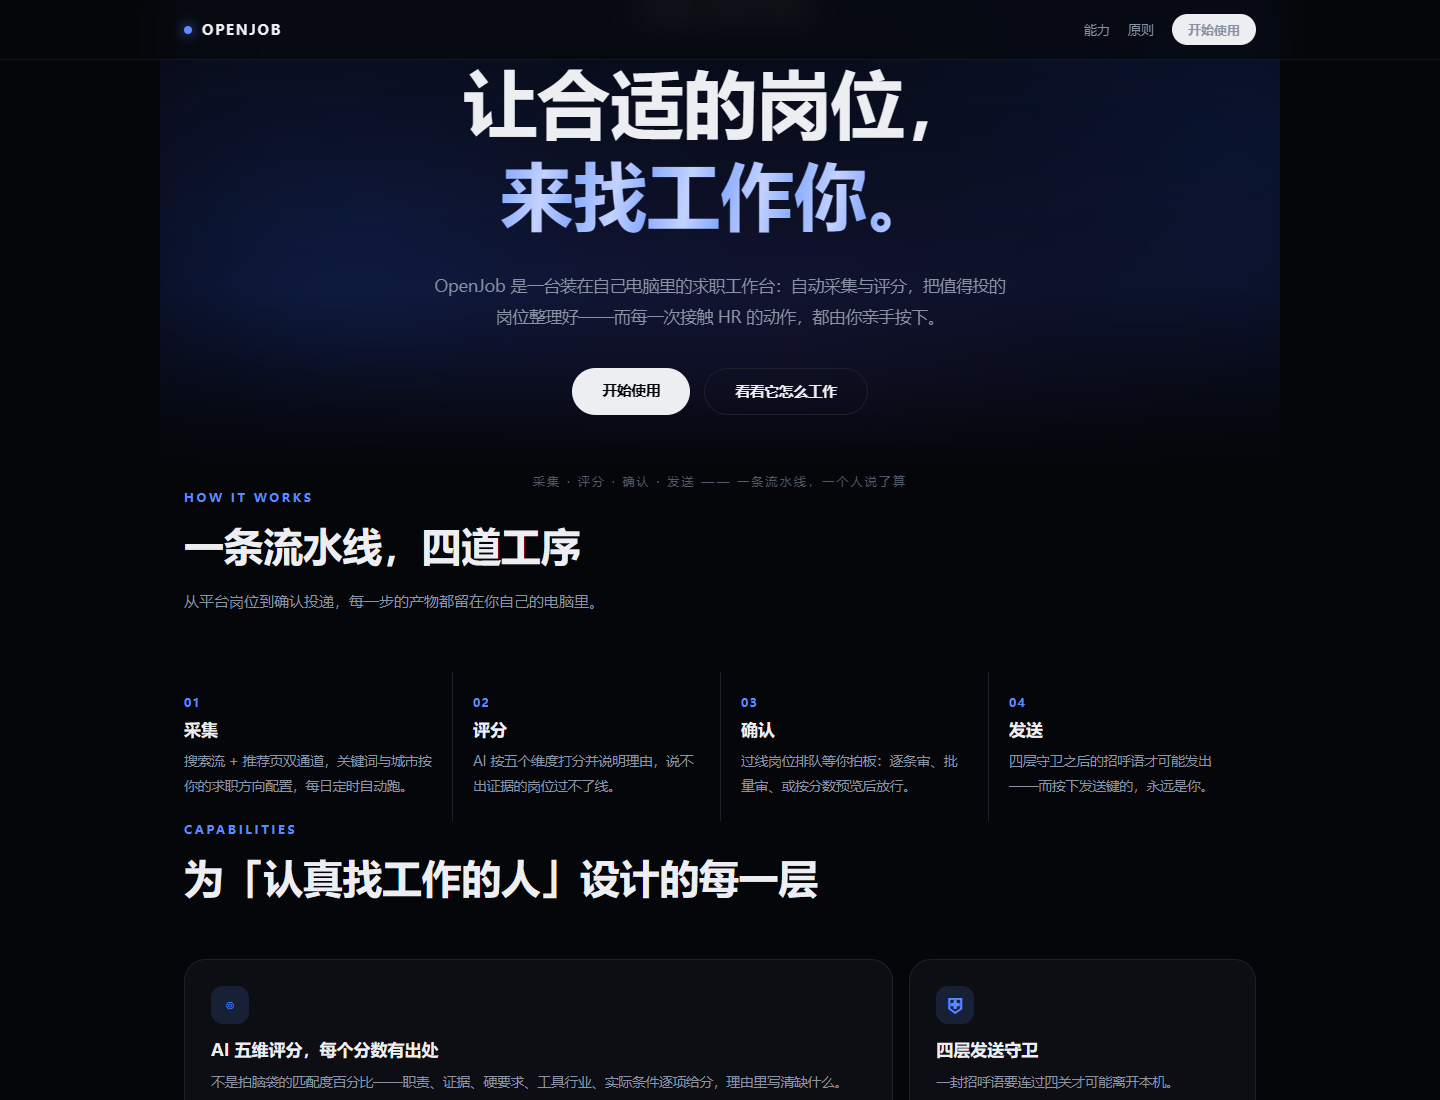
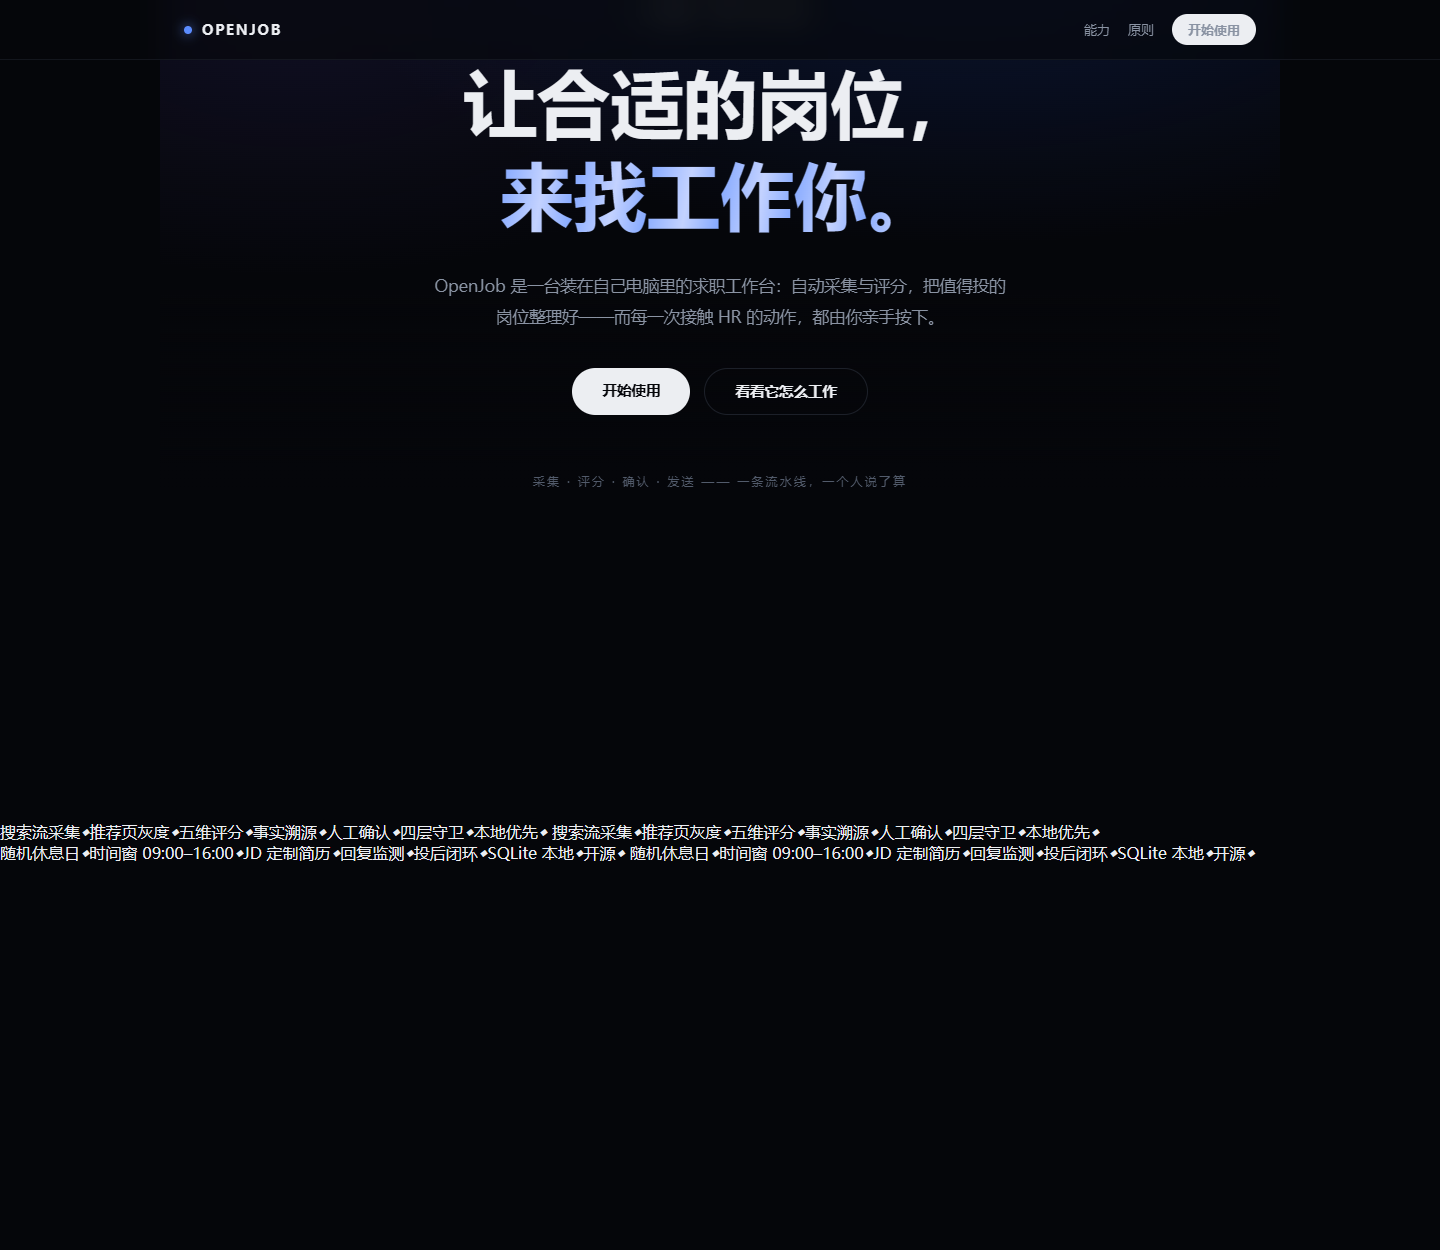
feat(landing): ribbon marquee + relaxed spacing (phase 3)
- 丝带横飘：两行反向流动的关键词带（38s/46s 匀速），hover 暂停 + 词变亮
  （puppeteer 实测 paused-on-hover）；左右渐隐 mask；reduced-motion 停止
- 排版再放松：section 118→150px、bento gap 16→20、cell padding 26→34/32、
  flow 56→76、hero 176/150→210/190、manifesto 130→190、h2 加行高

diff --git a/landing/index.html b/landing/index.html
@@ -199,6 +199,21 @@
   </div>
 </section>
 
+<div class="ribbon-zone" aria-hidden="true">
+  <div class="ribbon-track">
+    <div class="ribbon r1">
+      <span>搜索流采集</span><i>◆</i><span>推荐页灰度</span><i>◆</i><span>五维评分</span><i>◆</i><span>事实溯源</span><i>◆</i><span>人工确认</span><i>◆</i><span>四层守卫</span><i>◆</i><span>本地优先</span><i>◆</i>
+      <span>搜索流采集</span><i>◆</i><span>推荐页灰度</span><i>◆</i><span>五维评分</span><i>◆</i><span>事实溯源</span><i>◆</i><span>人工确认</span><i>◆</i><span>四层守卫</span><i>◆</i><span>本地优先</span><i>◆</i>
+    </div>
+  </div>
+  <div class="ribbon-track">
+    <div class="ribbon r2">
+      <span>随机休息日</span><i>◆</i><span>时间窗 09:00–16:00</span><i>◆</i><span>JD 定制简历</span><i>◆</i><span>回复监测</span><i>◆</i><span>投后闭环</span><i>◆</i><span>SQLite 本地</span><i>◆</i><span>开源</span><i>◆</i>
+      <span>随机休息日</span><i>◆</i><span>时间窗 09:00–16:00</span><i>◆</i><span>JD 定制简历</span><i>◆</i><span>回复监测</span><i>◆</i><span>投后闭环</span><i>◆</i><span>SQLite 本地</span><i>◆</i><span>开源</span><i>◆</i>
+    </div>
+  </div>
+</div>
+
 <section class="wrap">
   <div class="kicker reveal">Capabilities</div>
   <h2 class="reveal">为「认真找工作的人」设计的每一层</h2>
@@ -332,6 +347,35 @@ safe(function () {
     requestAnimationFrame(render);
   })(0);
 });
+
+/* ── 丝带横飘：两行反向流动的关键词带，hover 暂停（W12） ── */
+.ribbon-zone {
+  padding: 30px 0 10px;
+  display: flex; flex-direction: column; gap: 12px;
+  overflow: hidden;
+  -webkit-mask-image: linear-gradient(90deg, transparent, black 12%, black 88%, transparent);
+  mask-image: linear-gradient(90deg, transparent, black 12%, black 88%, transparent);
+}
+.ribbon-track { overflow: hidden; }
+.ribbon {
+  display: flex; align-items: center; gap: 28px; width: max-content;
+  padding: 10px 0;
+}
+.ribbon span {
+  white-space: nowrap; font-size: 15px; font-weight: 600; letter-spacing: .02em;
+  color: #6d7889; transition: color 250ms var(--ease);
+}
+.ribbon i { font-style: normal; color: #2c3342; font-size: 9px; }
+.ribbon.r1 { animation: ribbon-left 38s linear infinite; }
+.ribbon.r2 { animation: ribbon-right 46s linear infinite; }
+.ribbon:hover span { color: var(--text); }
+.ribbon.r1:hover { animation-play-state: paused; }
+.ribbon.r2:hover { animation-play-state: paused; }
+@keyframes ribbon-left { from { transform: translateX(0); } to { transform: translateX(-50%); } }
+@keyframes ribbon-right { from { transform: translateX(-50%); } to { transform: translateX(0); } }
+@media (prefers-reduced-motion: reduce) {
+  .ribbon { animation: none !important; }
+}
 
 /* 滚动浮现 */
 safe(function () {
